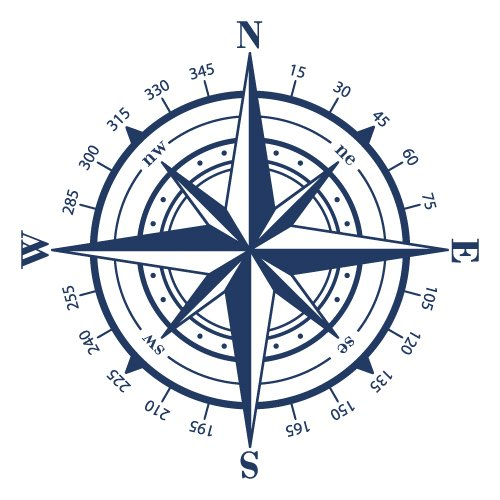
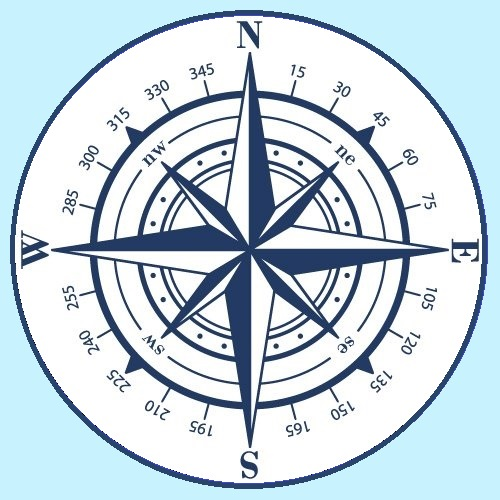
Add Point Info Panel to UI

diff --git a/src/untref_tfi/controller/SelectedPixelPaneController.java b/src/untref_tfi/controller/SelectedPixelPaneController.java
@@ -1,8 +1,13 @@
 package untref_tfi.controller;
 
+import javafx.geometry.Pos;
 import javafx.scene.control.Label;
 import javafx.scene.control.TextField;
+import javafx.scene.layout.HBox;
+import javafx.scene.layout.Pane;
 import javafx.scene.layout.VBox;
+import javafx.scene.paint.Paint;
+import javafx.scene.text.Font;
 
 public class SelectedPixelPaneController {
 
@@ -10,19 +15,75 @@ public class SelectedPixelPaneController {
 	private final TextField yPos;
 	private final VBox pane;
 	private final TextField xPos;
+	private final TextField xyDepth;
+	private final TextField xyColor;
 
 	public SelectedPixelPaneController(String paneName) {
+		
 		Label title = new Label(paneName);
-		Label x = new Label("x");
+		title.setFont(Font.font ("Verdana", 20));
+		title.setAlignment(Pos.TOP_CENTER);
+		title.setMinSize(150, 30);
+		title.setTextFill(Paint.valueOf("#29446B"));
+		
+		Label xLabel = new Label("x");
+		xLabel.setFont(Font.font ("Verdana", 20));
+		xLabel.setMinSize(70, 30);
+		xLabel.setAlignment(Pos.CENTER);
+		xLabel.setTextFill(Paint.valueOf("#29446B"));
 		xPos = new TextField(EMPTY_VALUE);
 		xPos.setEditable(false);
-		xPos.setMaxWidth(40);
-		Label y = new Label("y");
-		this.yPos = new TextField(EMPTY_VALUE);
-		this.yPos.setEditable(false);
-		this.yPos.setMaxWidth(40);
-		this.pane = new VBox();
-		this.pane.getChildren().addAll(title, x, this.xPos, y, this.yPos);
+		xPos.setMaxSize(70, 30);
+		xPos.setStyle("-fx-text-fill: green; -fx-font-size: 16;");
+		xPos.setAlignment(Pos.CENTER);
+		
+		Label yLabel = new Label("y");
+		yLabel.setFont(Font.font ("Verdana", 20));
+		yLabel.setMinSize(70, 30);
+		yLabel.setAlignment(Pos.CENTER);
+		yLabel.setTextFill(Paint.valueOf("#29446B"));
+		yPos = new TextField(EMPTY_VALUE);
+		yPos.setEditable(false);
+		yPos.setMaxSize(70, 30);
+		yPos.setStyle("-fx-text-fill: green; -fx-font-size: 16;");
+		yPos.setAlignment(Pos.CENTER);
+		
+		Pane posRefPane = new HBox();
+		posRefPane.setMaxSize(140, 30);
+		posRefPane.getChildren().addAll(xLabel, yLabel);
+		
+		Pane posValPane = new HBox();
+		posValPane.setMaxSize(140, 30);
+		posValPane.getChildren().addAll(xPos, yPos);
+		
+		Label xyDepthLabel = new Label("depth [m]");
+		xyDepthLabel.setFont(Font.font ("Verdana", 20));
+		xyDepthLabel.setMinSize(140, 30);
+		xyDepthLabel.setAlignment(Pos.CENTER);
+		xyDepthLabel.setTextFill(Paint.valueOf("#29446B"));
+		xyDepth = new TextField(EMPTY_VALUE);
+		xyDepth.setEditable(false);
+		xyDepth.setMaxSize(140, 30);
+		xyDepth.setStyle("-fx-text-fill: green; -fx-font-size: 16;");
+		xyDepth.setAlignment(Pos.CENTER);
+		
+		
+		Label xyColorLabel = new Label("color [R;G;B]");
+		xyColorLabel.setFont(Font.font ("Verdana", 20));
+		xyColorLabel.setMinSize(140, 30);
+		xyColorLabel.setAlignment(Pos.CENTER);
+		xyColorLabel.setTextFill(Paint.valueOf("#29446B"));
+		xyColor = new TextField(EMPTY_VALUE);
+		xyColor.setEditable(false);
+		xyColor.setMaxSize(140, 30);
+		xyColor.setStyle("-fx-text-fill: green; -fx-font-size: 16;");
+		xyColor.setAlignment(Pos.CENTER);
+		
+		pane = new VBox();
+		pane.getChildren().addAll(title, posRefPane, posValPane,xyDepthLabel,xyDepth,xyColorLabel,xyColor);
+		pane.setStyle("-fx-background-color: #6DF1D8; -fx-border-color: #29446B; -fx-border-width:2px; -fx-border-style: solid;");
+		pane.setMinSize(150, 250);
+		pane.setAlignment(Pos.CENTER);
 	}
 
 	public VBox getPane() {
@@ -33,9 +94,11 @@ public class SelectedPixelPaneController {
 		return !EMPTY_VALUE.equals(xPos.getText()) && !EMPTY_VALUE.equals(yPos.getText());
 	}
 
-	public void setXYvalues(int x, int y) {
+	public void setXYvalues(int x, int y, double xydepth, String rgbColor) {
 		xPos.setText(String.valueOf(x));
 		yPos.setText(String.valueOf(y));
+		xyDepth.setText(String.valueOf(xydepth/10000));
+		xyColor.setText(rgbColor);
 	}
 
 	public void clearValues() {

diff --git a/src/untref_tfi/controller/MainGraphicInterfaceController.java b/src/untref_tfi/controller/MainGraphicInterfaceController.java
@@ -12,6 +12,7 @@ import javafx.scene.image.Image;
 import javafx.scene.image.ImageView;
 import javafx.scene.input.MouseEvent;
 import javafx.scene.layout.AnchorPane;
+import javafx.scene.layout.Pane;
 import javafx.scene.layout.StackPane;
 
 public class MainGraphicInterfaceController {
@@ -21,6 +22,7 @@ public class MainGraphicInterfaceController {
 	private ImageView imageRosaView;
 	private ImageView imageRosaIconView;
 	private ImageCaptureController imageCapture;
+	private SelectedPixelPaneController pixelPanel;
 	private Scene mainScene;
 	private static final int maxWidth=640;
 	private static final int maxlength=480;
@@ -36,7 +38,7 @@ public class MainGraphicInterfaceController {
 		createKinectImageView();
 		createImageRosaView();
 		createImageRosaIconView();
-		
+		pixelPanel= new SelectedPixelPaneController("Point Information");		
 	}
 	
 	public Scene getMainScene(){
@@ -45,8 +47,8 @@ public class MainGraphicInterfaceController {
 		StackPane mainPane = new StackPane();
 		mainPane.getChildren().add(anchorpane);
 		mainPane.setAlignment(Pos.CENTER);
+		mainPane.setStyle("-fx-background-color: #C7F2FE");
 		mainScene = new Scene(mainPane);
-		
 		return mainScene;
 	}
 	
@@ -96,7 +98,10 @@ public class MainGraphicInterfaceController {
 
             	convertXYclicToCartesianSelectedPoint(e);
             	
-            	System.out.println("["+selectedXpoint+", "+selectedYpoint+"]");
+            	pixelPanel.setXYvalues(selectedXpoint,selectedYpoint,
+            			imageCapture.getXYMatrizProfundidad((int)e.getX(),(int)e.getY()),
+            			imageCapture.getXYMatrizRGBColorCadena((int)e.getX(),(int)e.getY()));
+       
             }
 
 			
@@ -110,9 +115,9 @@ public class MainGraphicInterfaceController {
 
 	private AnchorPane createAnchorPane(){
 		
-		//Label label3 = new Label("Search",null);
+		Pane pixelPane=pixelPanel.getPane();
 		List<Node> principalPaneChildrens = new ArrayList<Node>();
-		principalPaneChildrens.addAll(Arrays.asList(imageRosaView,kinectImageView,imageRosaIconView));
+		principalPaneChildrens.addAll(Arrays.asList(imageRosaView,kinectImageView,imageRosaIconView,pixelPane));
 		AnchorPane anchorpane = new AnchorPane();
 		anchorpane.getChildren().addAll(principalPaneChildrens);
 		AnchorPane.setTopAnchor(imageRosaIconView, 20.0);
@@ -123,8 +128,8 @@ public class MainGraphicInterfaceController {
 		AnchorPane.setTopAnchor(kinectImageView, 272.0);
 		AnchorPane.setBottomAnchor(kinectImageView, 272.0);
 		AnchorPane.setLeftAnchor(kinectImageView, 320.0);
-		//AnchorPane.setTopAnchor(label3, 216.0);
-		//AnchorPane.setLeftAnchor(label3, 114.0);
+		AnchorPane.setBottomAnchor(pixelPane, 40.0);
+		AnchorPane.setLeftAnchor(pixelPane, 20.0);
 		
 		return anchorpane;
 	}

diff --git a/src/untref_tfi/controller/ImageCaptureController.java b/src/untref_tfi/controller/ImageCaptureController.java
@@ -105,5 +105,15 @@ public class ImageCaptureController {
 		return (i==320)||(j==240);
 		
 	}
-
+	
+	public String getXYMatrizRGBColorCadena (int x,int y){
+		String cadenaColor="";
+		Color color = data.getColorEnPixel(x, y);
+		cadenaColor="["+color.getRed()+";"+color.getGreen()+";"+color.getBlue()+"]";	
+		return cadenaColor;
+	}
+	
+	public double getXYMatrizProfundidad (int x,int y){
+		return data.getDistancia(x, y);
+	}
 }
